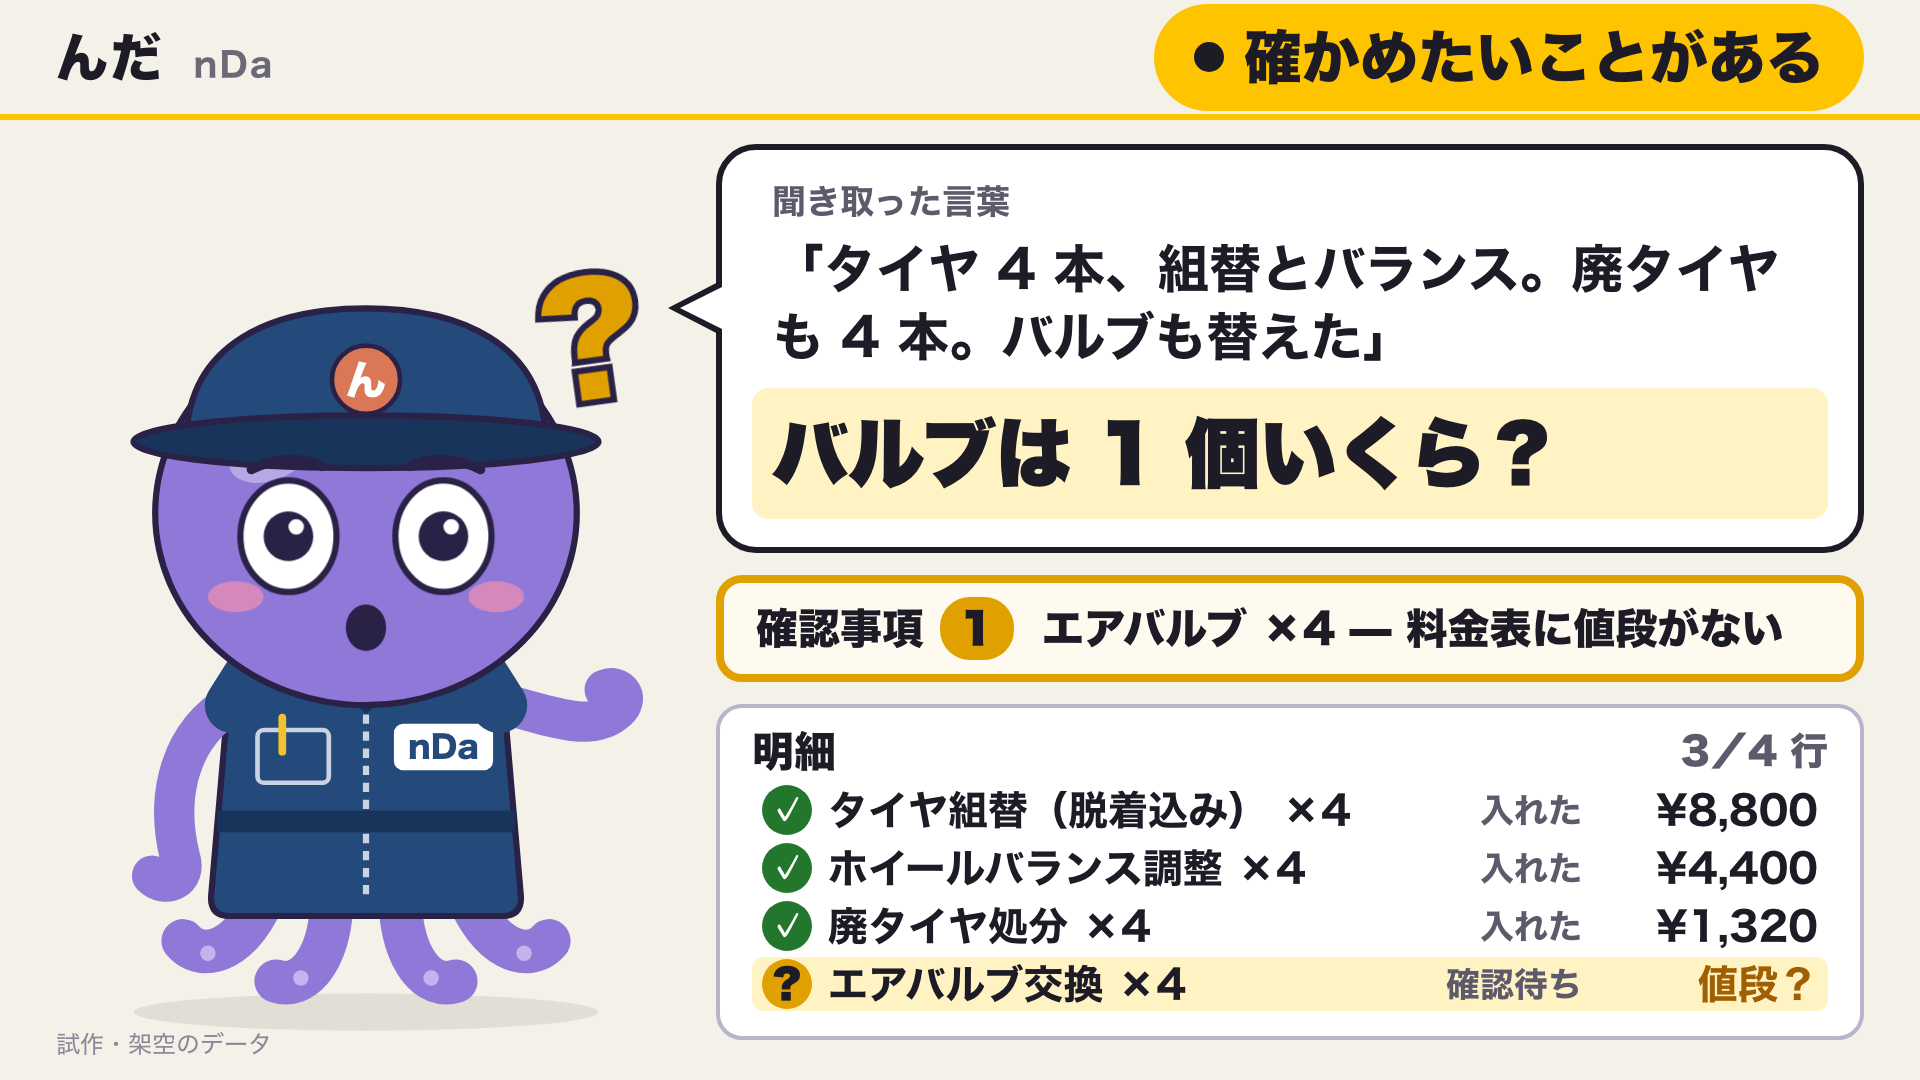
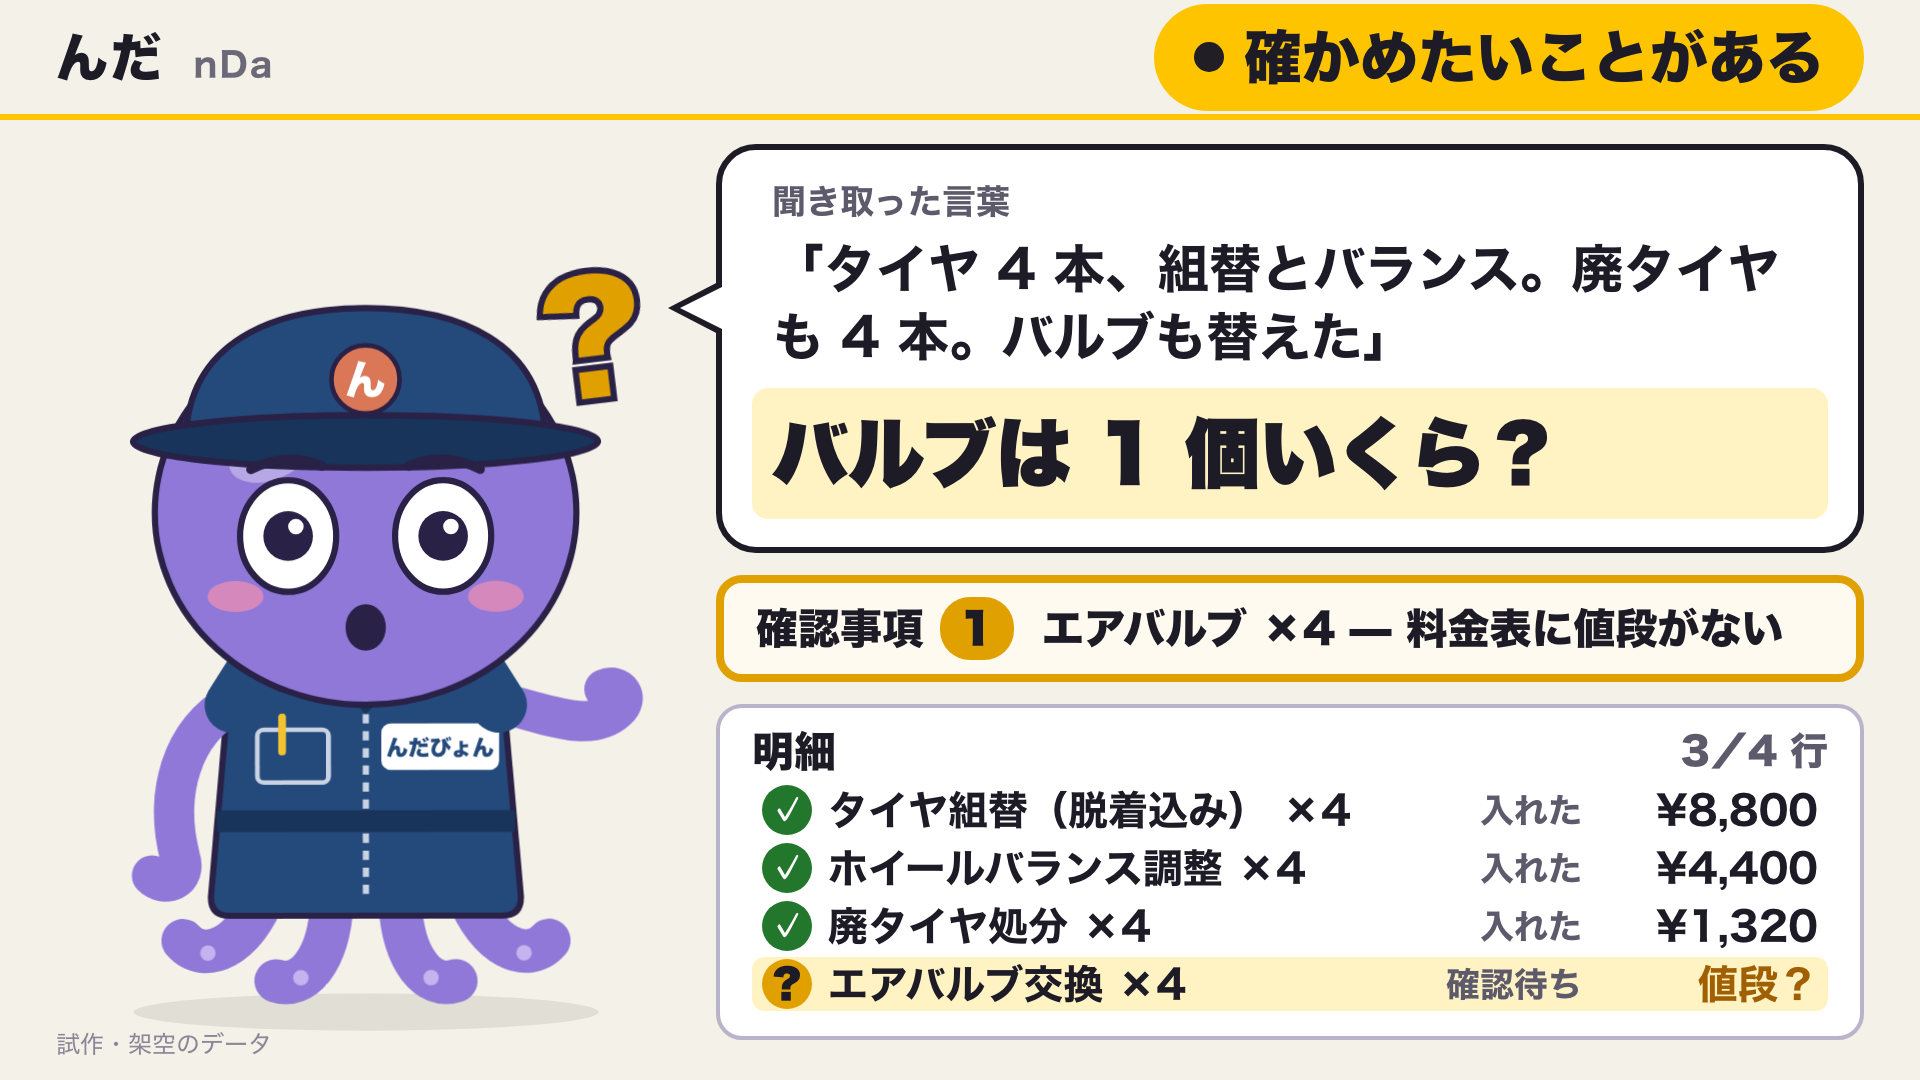
feat: 相棒の名前を「んだびょん」にし、声はずんだもんに決定と書く
Claude-Session: https://claude.ai/code/session_019unmf8mqZ8yUZvujbQqr5S

Changed region(s): [[0.2812, 0.2444, 0.3438, 0.3972], [0.1875, 0.6722, 0.2812, 0.7333]]

diff --git a/app/monitor/Companion.tsx b/app/monitor/Companion.tsx
@@ -130,8 +130,8 @@ export default function Companion({ state }: { state: StateKey }) {
         <rect x={104} y={352} width={192} height={14} fill={SUIT_DARK} />
         <rect x={130} y={300} width={46} height={34} rx={4} fill="none" stroke="#c9d3e3" strokeWidth={3} />
         <line x1={146} y1={292} x2={146} y2={314} stroke="#f2c230" strokeWidth={5} strokeLinecap="round" />
-        <rect x={218} y={296} width={64} height={30} rx={6} fill="#fff" />
-        <text x={250} y={318} textAnchor="middle" fontSize={20} fontWeight={800} fill={SUIT}>nDa</text>
+        <rect x={210} y={296} width={76} height={30} rx={6} fill="#fff" />
+        <text x={248} y={317} textAnchor="middle" fontSize={14} fontWeight={800} fill={SUIT}>んだびょん</text>
 
         {/* 持ち物（腕より奥） */}
         {(state === "drafting" || state === "thinking") && (

diff --git a/docs/design/companion.md b/docs/design/companion.md
@@ -26,7 +26,7 @@
 
 ## 相棒のキャラクター
 
-整備服（紺のつなぎ）とキャップを身につけた、藤色のタコ。袖から 2 本、裾から 4 本の腕が出ている。胸に「nDa」の名札、キャップに「ん」の記章、胸ポケットに黄色のペン。
+整備服（紺のつなぎ）とキャップを身につけた、藤色のタコ。袖から 2 本、裾から 4 本の腕が出ている。胸に「んだびょん」の名札、キャップに「ん」の記章、胸ポケットに黄色のペン。
 
 ### Clawd と区別するための工夫
 
@@ -111,15 +111,13 @@
 | B | ずんだもん | 規約を確認済み（商用可、表記は「VOICEVOX:ずんだもん」）。高めの声で騒音の中でも通りやすい。知名度が高い | 声の印象が強く、整備の相棒より「ずんだもん」に見える。語尾「〜なのだ」を使わなければ印象は和らぐ | 「VOICEVOX:ずんだもん」 | 確認済（`docs/research.md`）。クレジット無しは 1 キャラクター 40 万円＋税 |
 | C | 玄野武宏（男性） | 父と同じ「店の人」として聞こえる、落ち着いた男性の声。父の年代に違和感が少ない | 低めの声は工場の騒音（エアインパクトなど）に埋もれやすい。実機で聞き比べる | 「VOICEVOX:玄野武宏」 | 未確認。声ごとの規約を確かめる |
 
-おすすめは A（青森とのつながり）。規約の確認が間に合わなければ、確認済みの B で進める。どの案でも、定型の質問（「値段が料金表にありません」など）は前もって WAV にしておけば、Pi 5 の速さに左右されない。
+**決定（2026-11-04）**: B ずんだもんで進める。相棒の名前は「んだびょん」（名札に表示。キャップの記章は「ん」のまま）。クレジット「VOICEVOX:ずんだもん」を画面の隅と README に入れる。将来、娘の声をサンプリングして入れたい（保護者である鹿内さんの同意のもと。今は実装しない）。A・C は採らない。どの案でも、定型の質問（「値段が料金表にありません」など）は前もって WAV にしておけば、Pi 5 の速さに左右されない。
 
 ## 鹿内さんに決めてほしいこと
 
 - 相棒の姿はこの方向（藤色のタコ・紺のつなぎ・キャップ）でよいか。体の色を変えるなら何色か（青森のりんごの赤は、Clawd のオレンジに近づくので避けたい）。
 - キャップの記章のテラコッタ（Claude へのオマージュ）を残すか、黄色にするか。
-- 相棒の名前。今は名札が「nDa」、キャップの記章が「ん」。名前を付けるか。
 - 状態の文言（上の表の太字）。特に「待っています。手は整備のままで。」と「発行は人が押してください」の言い回し。父が普段使う言葉に寄せるか（津軽弁を混ぜるか）。
 - 状態は 6 つでよいか。README には「入力している」（整備ソフトに入れている）があるが、試作では「請求書を作っている」に含めた。分けるか。
-- 声の案（A 東北イタコ／B ずんだもん／C 玄野武宏）。A か C なら、規約を確かめる作業を backlog に入れる。
 - 模擬画面の注釈の言い回し。`docs/decisions.md` では「実際は市販の整備ソフト（RacroS III）に入力する」と製品名を入れているが、画面では製品名を入れていない。動画で製品名を出すか。
 - モニターの実物の大きさと、整備士が立つ位置からの距離（文字の大きさの前提を確かめる）。
